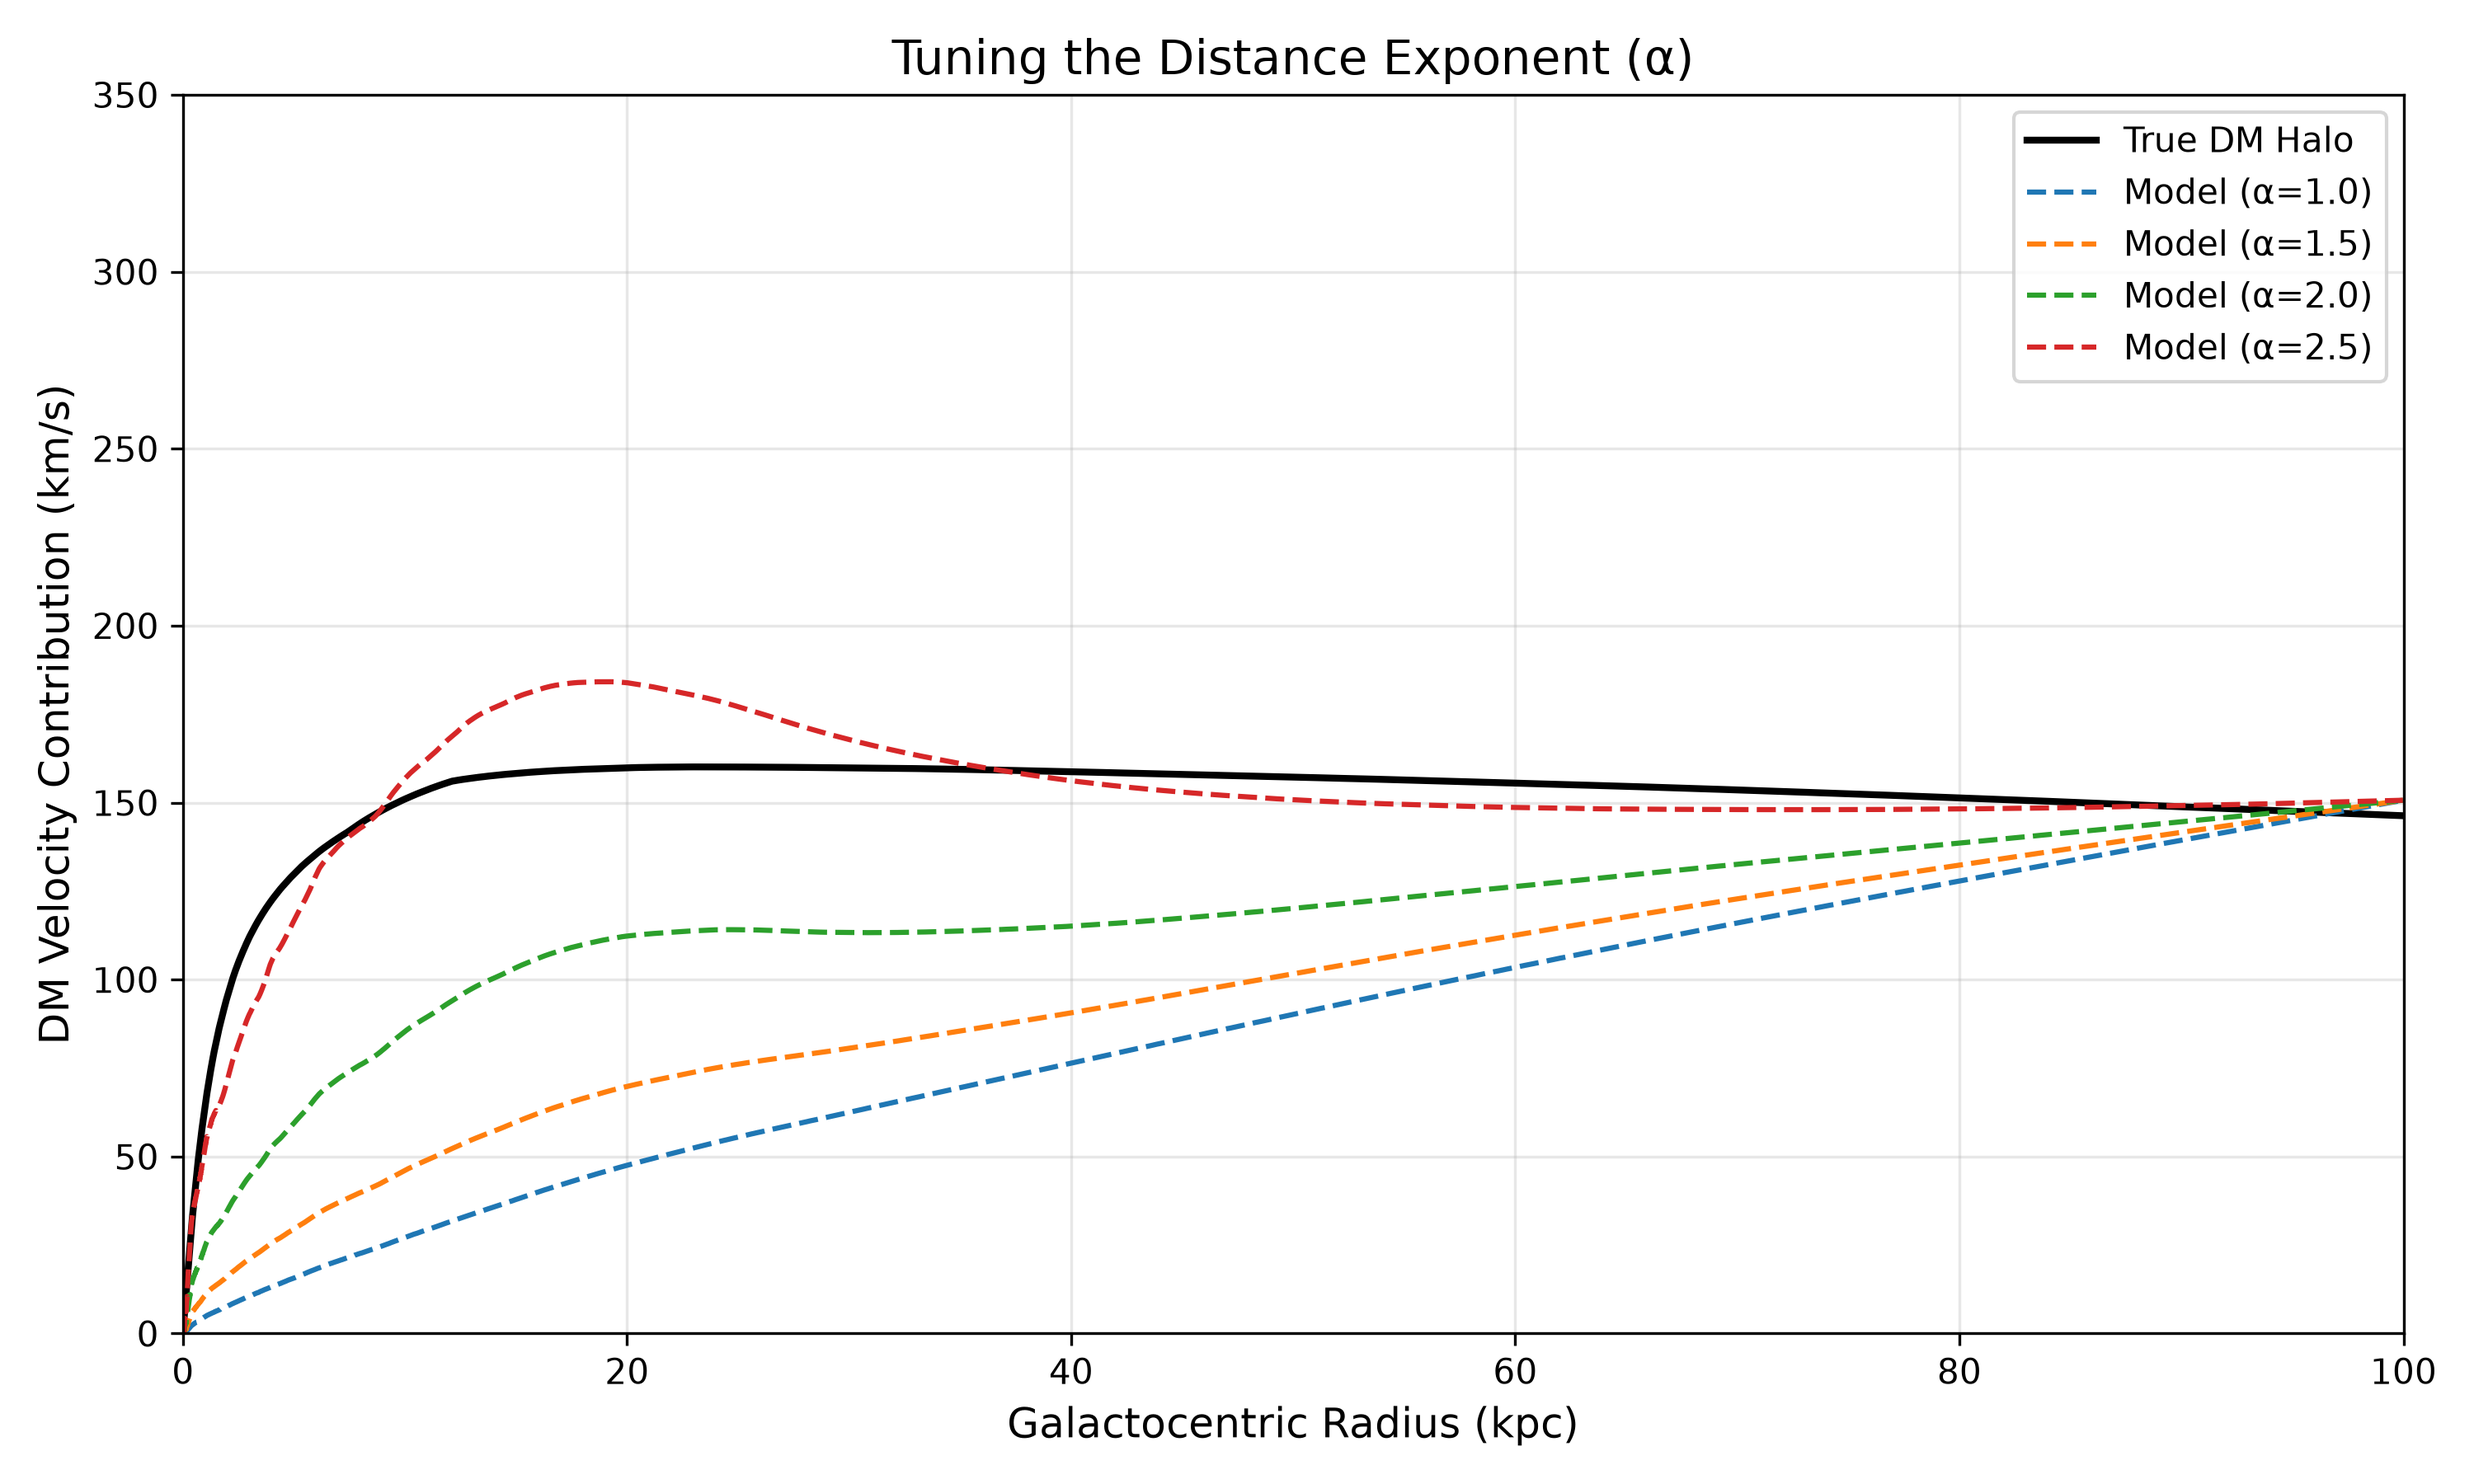
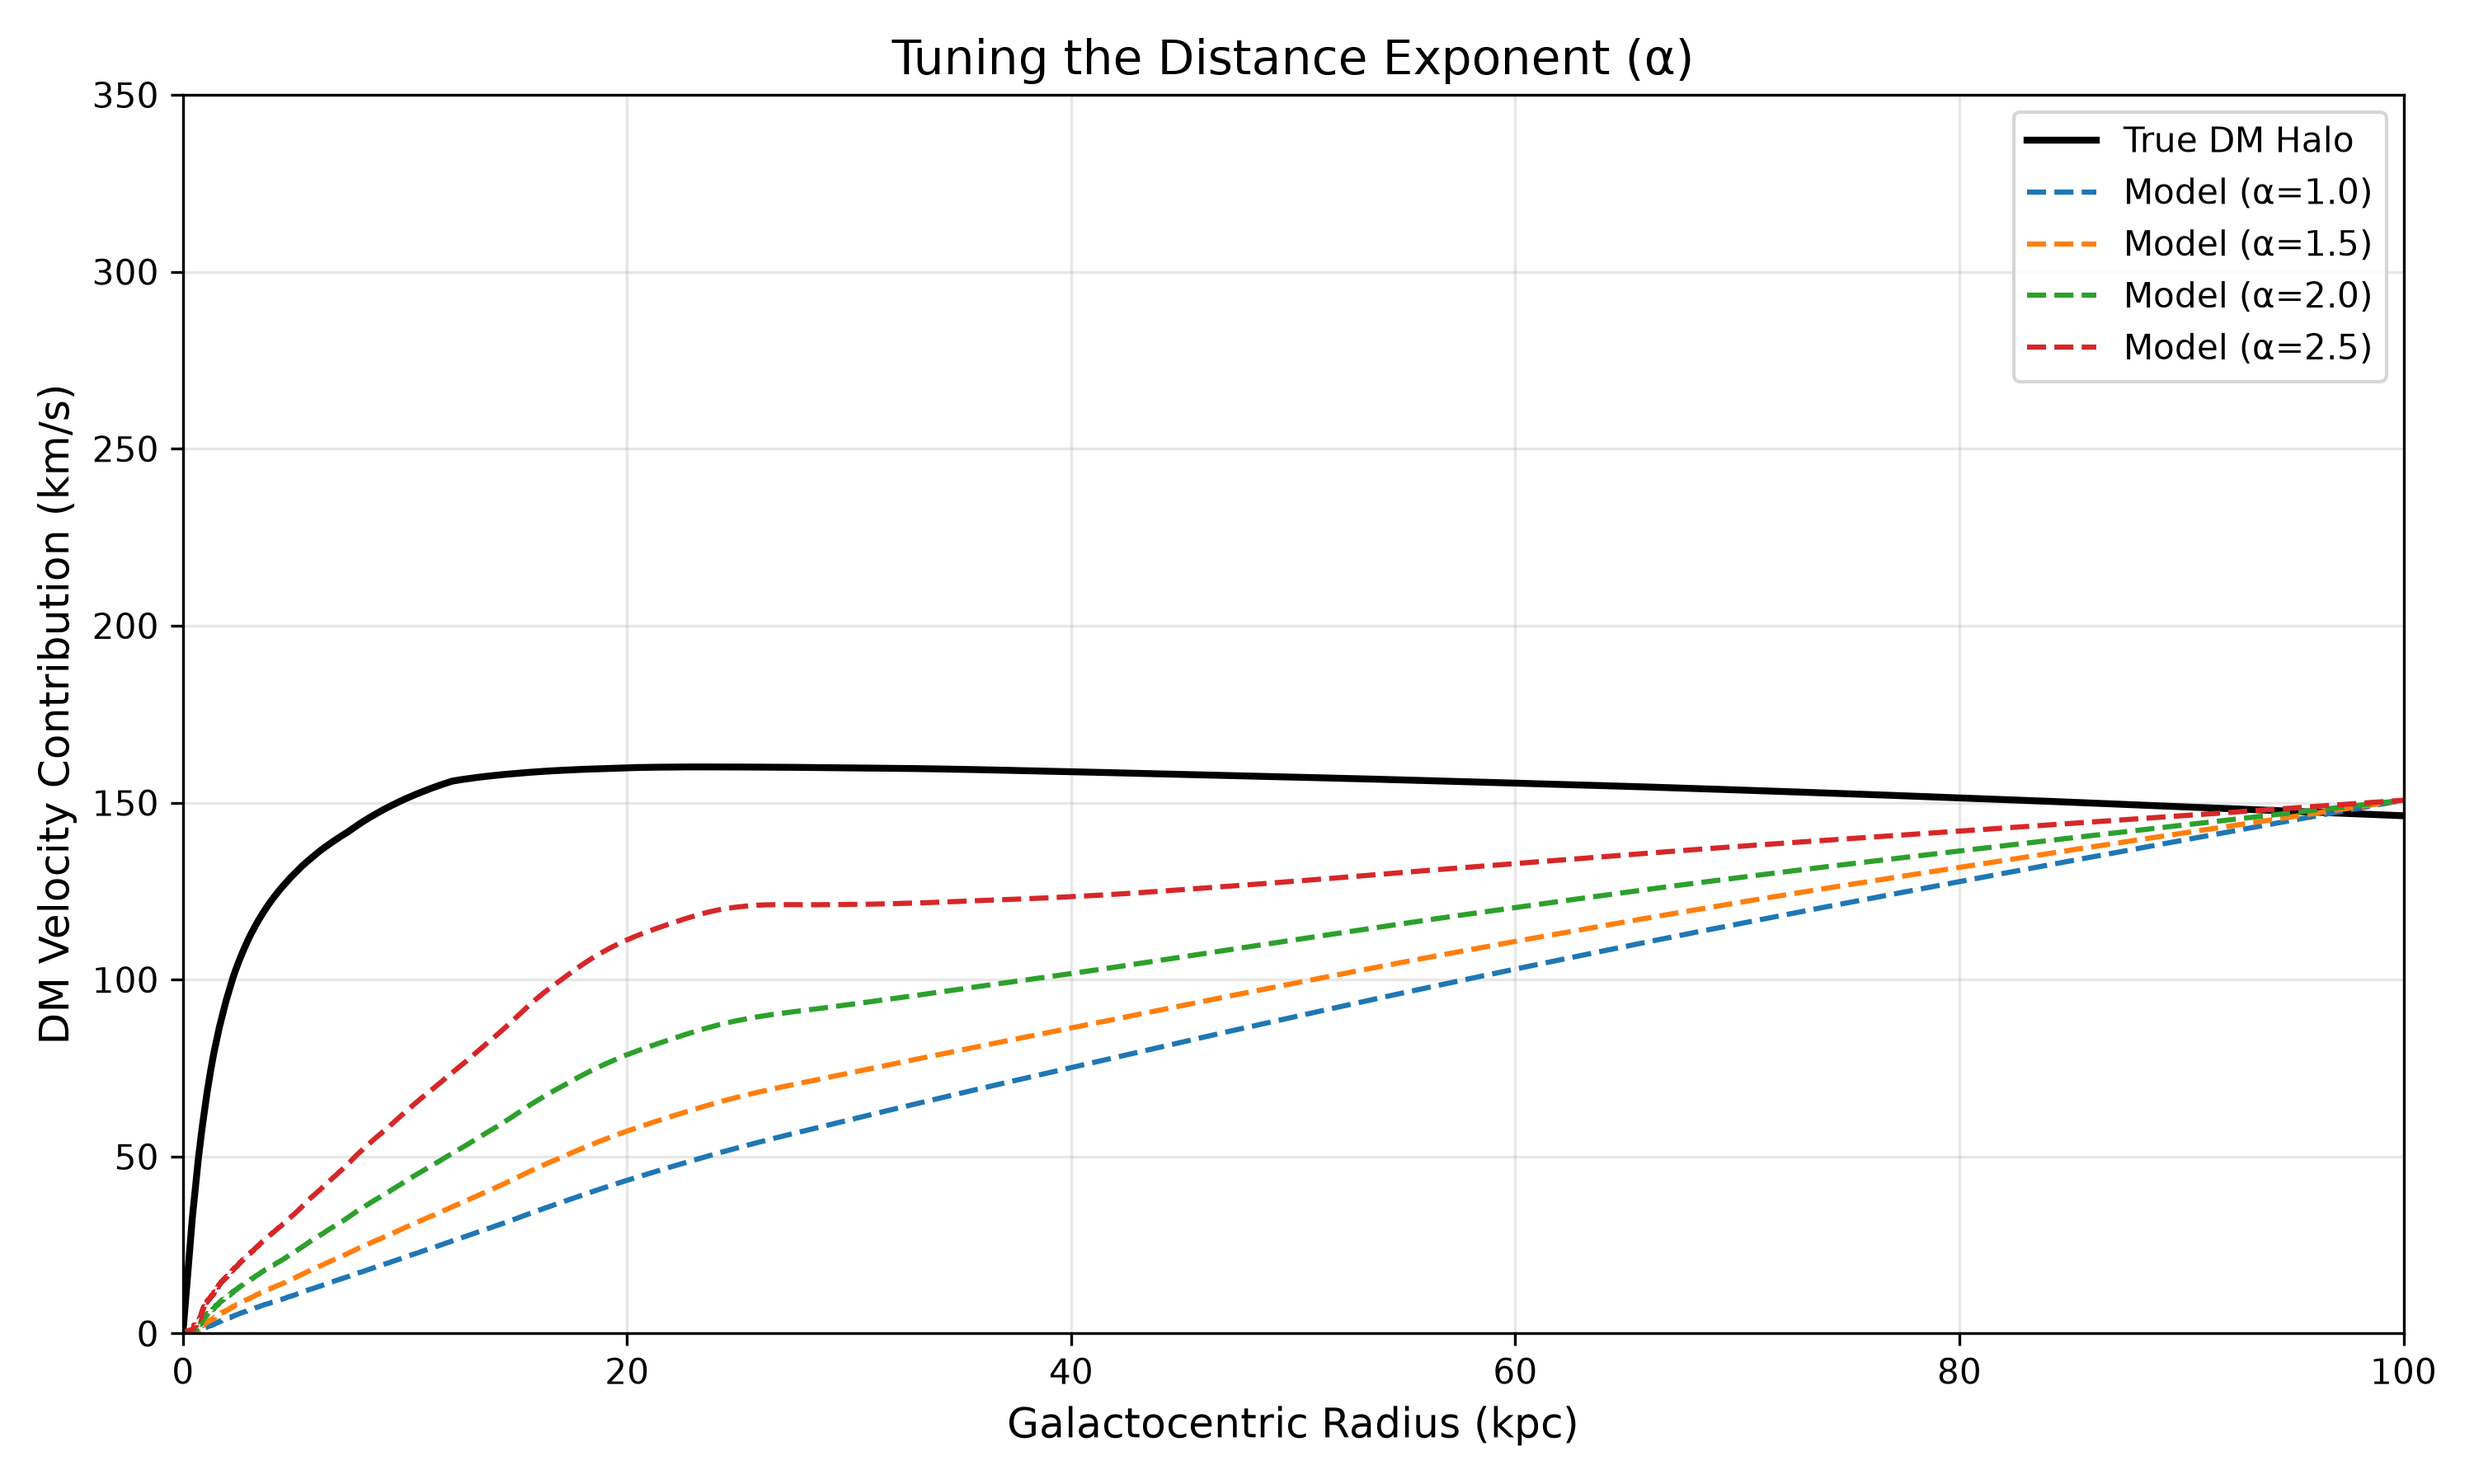
0.1 density cut, 100 kpc cut

diff --git a/darkmatter.py b/darkmatter.py
@@ -15,7 +15,7 @@ import gizmo_analysis as gizmo
 # 1. CONFIGURATION & CONSTANTS
 # ==========================================
 SNAPSHOT_NUM = 600
-DENSITY_THRESHOLD = 138.0001  # cm^-3 (filtering for diffuse gas)
+DENSITY_THRESHOLD = 0.1  # cm^-3 (filtering for diffuse gas)
 DISTANCE_LIMIT = 100.0    # kpc
 
 G = 4.3009e-6             # Gravitational constant: kpc * (km/s)^2 / M_sun
